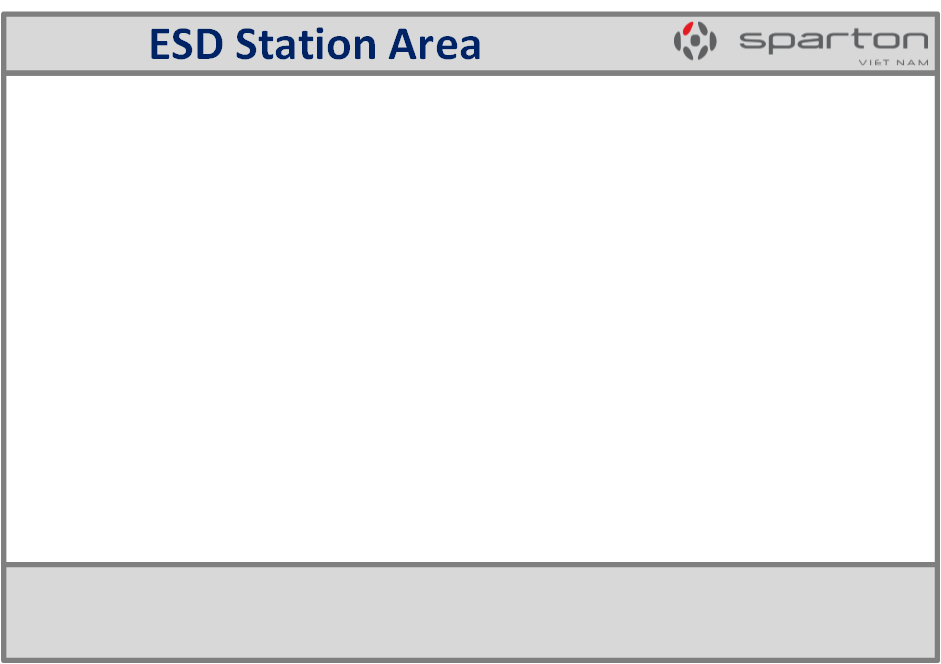
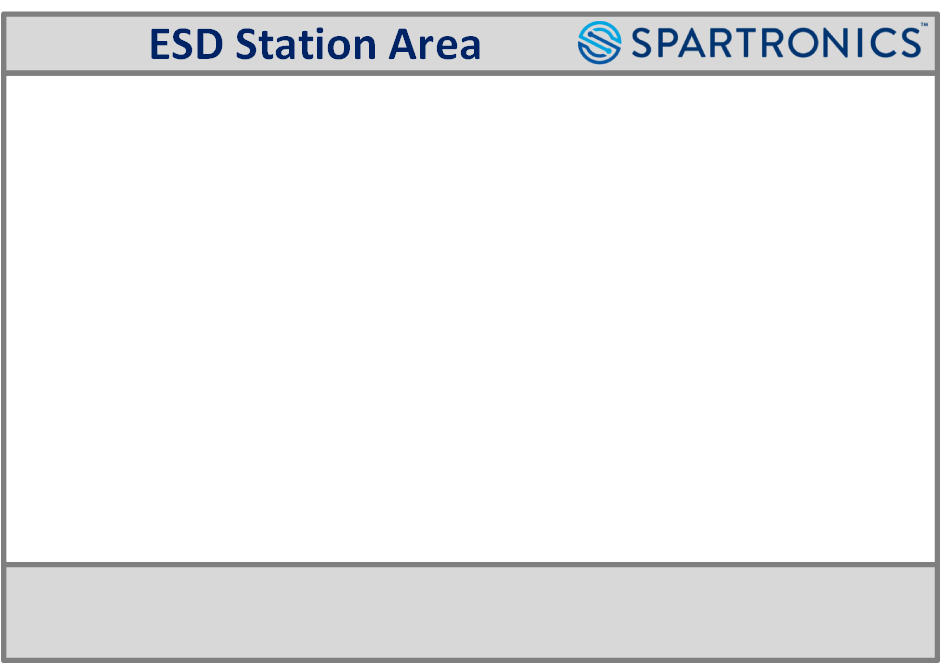
Requests posted in thread
Changed logo

Changed region(s): [[0.6164, 0.0301, 0.9862, 0.1205]]

diff --git a/main.py b/main.py
@@ -5,7 +5,6 @@ from tkinter import font as tkfont
 from tkinter.messagebox import showinfo
 from PIL import Image, ImageTk
 from enum import Enum
-import threading
 import RPi.GPIO as IO
 import os
 import cv2
@@ -17,6 +16,8 @@ import base64
 import time
 import datetime
 import random
+import queue
+import threading
 
 # module attached
 IR_SENSOR_PIN = 5
@@ -27,11 +28,11 @@ GATE_RELAY_PIN = 18
 # main config
 DIR_NAME = os.path.dirname(os.path.abspath(__file__))
 API_URL = 'http://172.16.65.18:8989/api'
-MACHINE = 'ESD-Mezzanine'
+MACHINE = 'ESD-[Station]'
 REQUEST_TIMEOUT = 1 #seconds
-GATE_TIMEOUT = 10 #seconds
+GATE_TIMEOUT = 7 #seconds
 RECOGNIZE_TIMEOUT = 3 #seconds
-CAMERA_TIMEOUT = 30 #seconds
+CAMERA_TIMEOUT = 300 #seconds
 BARCODE_SCAN_TIMEOUT = 10 #seconds
 ESD_TEST_TIMEOUT = 7 #seconds
 
@@ -59,7 +60,6 @@ class App(tk.Tk):
         IO.setwarnings(False)
         IO.setmode(IO.BCM)
         IO.setup(IR_SENSOR_PIN, IO.IN) #IR sensor
-        print(IR_SENSOR_PIN)
         IO.setup(LIGHT_SENSOR_LEFT_PIN, IO.IN) #Left light sensor
         IO.setup(LIGHT_SENSOR_RIGHT_PIN, IO.IN) #Right light sensor
         IO.setup(GATE_RELAY_PIN, IO.OUT) #Gate relay
@@ -74,6 +74,8 @@ class App(tk.Tk):
         self.title("GUI")
         self.geometry("900x600")
         self.wm_attributes("-fullscreen", "true")
+        # bind exit callback function
+        self.protocol("WM_DELETE_WINDOW", self.quit)
 
         # the container is where we'll stack a bunch of frames
         # on top of each other, then the one we want visible
@@ -119,12 +121,21 @@ class App(tk.Tk):
                 self.mode = AppMode.ESD_TEST
         except: pass
 
+    def quit(self):
+        self.mode = AppMode.QUIT
+        # destroy each frame first 
+        for frame in list(self.frames):
+            del self.frames[frame]
+        # destroy the app
+        self.destroy()
+
 class AppMode(Enum):
     IDLE = "ideal"
     MOTION_DETECT = "motion_detect"
     FACE_RECOGNIZE = "face_recognize"
     BARCODE_SCAN = "barcode_scan"
     ESD_TEST = "esd_test"
+    QUIT = "quit"
 
 class MainPage(tk.Frame):
 
@@ -149,8 +160,12 @@ class MainPage(tk.Frame):
         self.refresh_timer = Timer()
         # the timeout for opening the gate
         self.gate_timer = Timer(GATE_TIMEOUT)
+        # handle image queue
+        self.req_queue = queue.Queue()
+        # handle image thread
+        self.req_thread = threading.Thread(target=self.observe_req_queue)
         self.recognizing = False
-        self.data = { "title": "Welcome to Sparton VN", "message": "Chúc bạn một ngày làm việc vui vẻ!" }
+        self.data = { "title": "Welcome to Spartronics VN", "message": "Chúc bạn một ngày làm việc vui vẻ!" }
         self.camera_on = False
         self.left_foot = None
         self.right_foot = None
@@ -178,6 +193,7 @@ class MainPage(tk.Frame):
         #self.lbarcode.bind("<Button-1>", self.use_barcode)
         self.use_barcode()
         self.detect_motion()
+        self.req_thread.start()
 
     def render(self):
         width = self.width
@@ -206,6 +222,7 @@ class MainPage(tk.Frame):
     def render_esd_result(self, rendered):
         self.canvas.delete('rfoot')
         self.canvas.delete('lfoot')
+
         if rendered == True and self.controller.mode == AppMode.ESD_TEST and self.left_foot is not None and self.right_foot is not None:
             pic_w = 200
             pic_h = 100
@@ -226,7 +243,6 @@ class MainPage(tk.Frame):
             self.canvas.rtimg = rtphoto
 
     def detect_motion(self):
-        #print(IO.input(IR_SENSOR_PIN))
         if (IO.input(IR_SENSOR_PIN) == True):
             self.open_camera()
         self.close_gate()
@@ -410,7 +426,9 @@ class MainPage(tk.Frame):
         self.lmain.configure(image=imgtk)
         self.lmain.update()
 
-        self.handle_image(frame)
+        if self.req_queue.empty():
+            # put an function into queue, the function invokes handle method
+            self.req_queue.put(lambda: self.handle_image(frame))
 
         # close camera if no any faces detected
         if (self.face_timer.is_timeout()):
@@ -418,6 +436,20 @@ class MainPage(tk.Frame):
         # recall to stream video
         else:
             self.lmain.after(1, self.video_stream)
+
+    def observe_req_queue(self):
+        while True:
+            try:
+                if self.controller.mode == AppMode.QUIT:
+                    break
+                fn = self.req_queue.get()
+                fn()
+            except queue.Empty:
+                break
+
+        # observe the queue to handle until the application quit
+        if self.controller.mode != AppMode.QUIT:
+            self.lmain.after(100, self.observe_req_queue)
 
     def post_image(self, base64img):
         data = { "data": base64img }
@@ -449,7 +481,7 @@ class MainPage(tk.Frame):
         if (self.controller.mode != AppMode.ESD_TEST):
             try:
                 self.frame_count += 1
-                if (len(self.req_list) == 0 or self.frame_count % 3 == 0):
+                if (len(self.req_list) == 0 or self.frame_count % 2 == 0):
                     _, buf = cv2.imencode(".jpg", imgframe)
                     base64img = base64.b64encode(buf)
                     data = { "data": base64img }
@@ -457,7 +489,7 @@ class MainPage(tk.Frame):
                     self.frame_count = 0
 
                 # sent request to server every 0.5 seconds
-                if (self.dur_timer.is_timeout(0.5)):
+                if (self.dur_timer.is_timeout(0.1)):
                     # send image to server in order to detect face id
                     res = grequests.map(self.req_list, 10)
                     self.req_list.clear()
